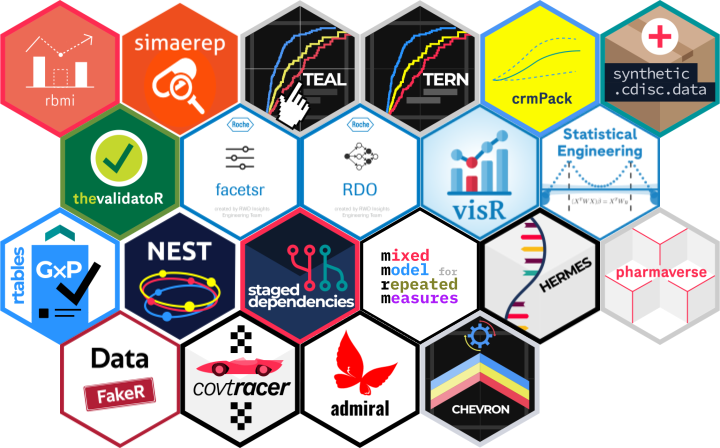
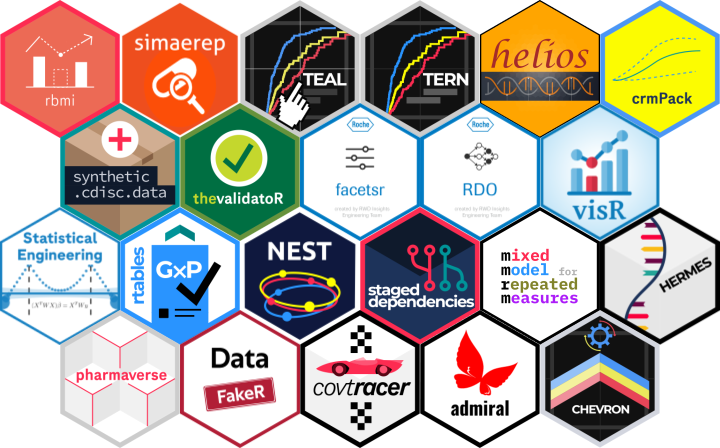
added hexSticker for helios

diff --git a/README.md b/README.md
@@ -77,6 +77,14 @@ This package is using html widgets to wrap facets into R
 </tr>
 <tr>
 <td>
+<img alt="Logo for helios" src="thumbs/helios.png" width="139" height="139"><br />helios
+<br />
+<p style="color:grey">
+This project is not tracked by openpharma.github.io
+</p>
+<a href="PNG/helios.png">helios.png</a>
+</td>
+<td>
 <img alt="Logo for hermes" src="thumbs/hermes.png" width="139" height="139"><br />hermes
 <br />
 <p style="color:grey">
@@ -92,6 +100,8 @@ This project is not tracked by openpharma.github.io
 </p>
 <a href="PNG/mmrm.png">mmrm.png</a>
 </td>
+</tr>
+<tr>
 <td>
 <img alt="Logo for nest" src="thumbs/nest.png" width="139" height="139"><br />nest
 <br />
@@ -100,8 +110,6 @@ This project is not tracked by openpharma.github.io
 </p>
 <a href="PNG/nest.png">nest.png</a>
 </td>
-</tr>
-<tr>
 <td>
 <img alt="Logo for pharmaverse" src="thumbs/pharmaverse.png" width="139" height="139"><br />pharmaverse
 <br />
@@ -118,6 +126,8 @@ Reference based multiple imputation R package
 </p>
 <a href="PNG/rbmi.png">rbmi.png</a>
 </td>
+</tr>
+<tr>
 <td>
 <img alt="Logo for RDO" src="thumbs/RDO.png" width="139" height="139"><br /><a href="https://github.com/openpharma/RDO">openpharma/RDO</a>
 <br />
@@ -126,8 +136,6 @@ Reproducible Data Objects (RDO) in R
 </p>
 <a href="PNG/RDO.png">RDO.png</a>
 </td>
-</tr>
-<tr>
 <td>
 <img alt="Logo for rtables" src="thumbs/rtables.png" width="139" height="139"><br /><a href="https://github.com/Roche/rtables">Roche/rtables</a>
 <br />
@@ -145,6 +153,8 @@ detecting under-reporting sites.
 </p>
 <a href="PNG/simaerep.png">simaerep.png</a>
 </td>
+</tr>
+<tr>
 <td>
 <img alt="Logo for staged.dependencies" src="thumbs/staged.dependencies.png" width="139" height="139"><br /><a href="https://github.com/openpharma/staged.dependencies">openpharma/staged.dependencies</a>
 <br />
@@ -153,8 +163,6 @@ R package to implement development stages for package development
 </p>
 <a href="PNG/staged.dependencies.png">staged.dependencies.png</a>
 </td>
-</tr>
-<tr>
 <td>
 <img alt="Logo for StatisticalEngineering" src="thumbs/StatisticalEngineering.png" width="139" height="139"><br />StatisticalEngineering
 <br />
@@ -171,6 +179,8 @@ No description in github
 </p>
 <a href="PNG/synthetic.cdisc.data.png">synthetic.cdisc.data.png</a>
 </td>
+</tr>
+<tr>
 <td>
 <img alt="Logo for teal" src="thumbs/teal.png" width="139" height="139"><br />teal
 <br />
@@ -179,8 +189,6 @@ This project is not tracked by openpharma.github.io
 </p>
 <a href="PNG/teal.png">teal.png</a>
 </td>
-</tr>
-<tr>
 <td>
 <img alt="Logo for tern" src="thumbs/tern.png" width="139" height="139"><br />tern
 <br />
@@ -197,6 +205,8 @@ Github Action that generates R Package Validation documentation 🏁
 </p>
 <a href="PNG/thevalidatoR.png">thevalidatoR.png</a>
 </td>
+</tr>
+<tr>
 <td>
 <img alt="Logo for visR" src="thumbs/visR.png" width="139" height="139"><br /><a href="https://github.com/openpharma/visR">openpharma/visR</a>
 <br />
